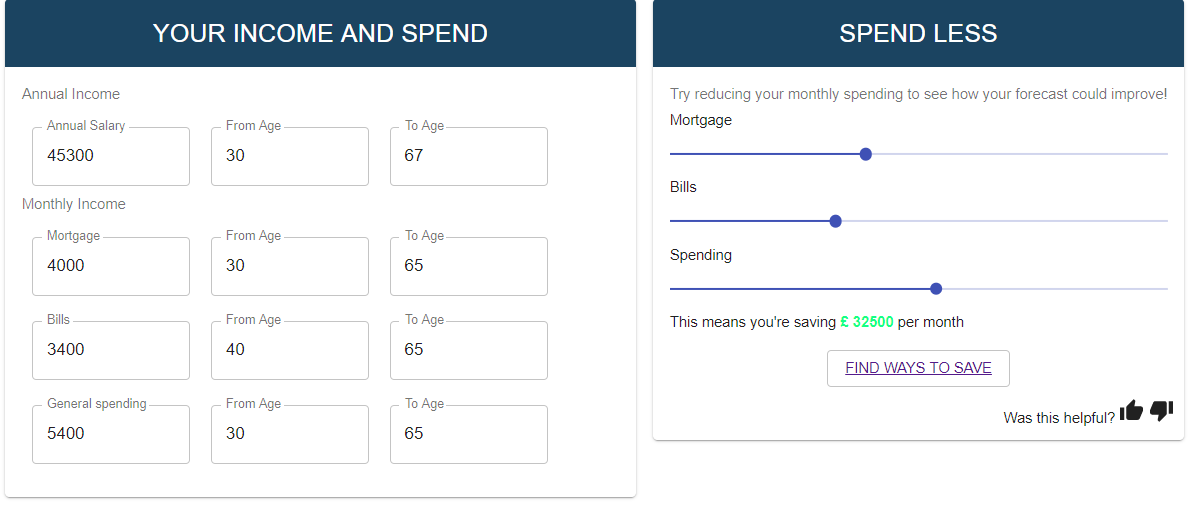
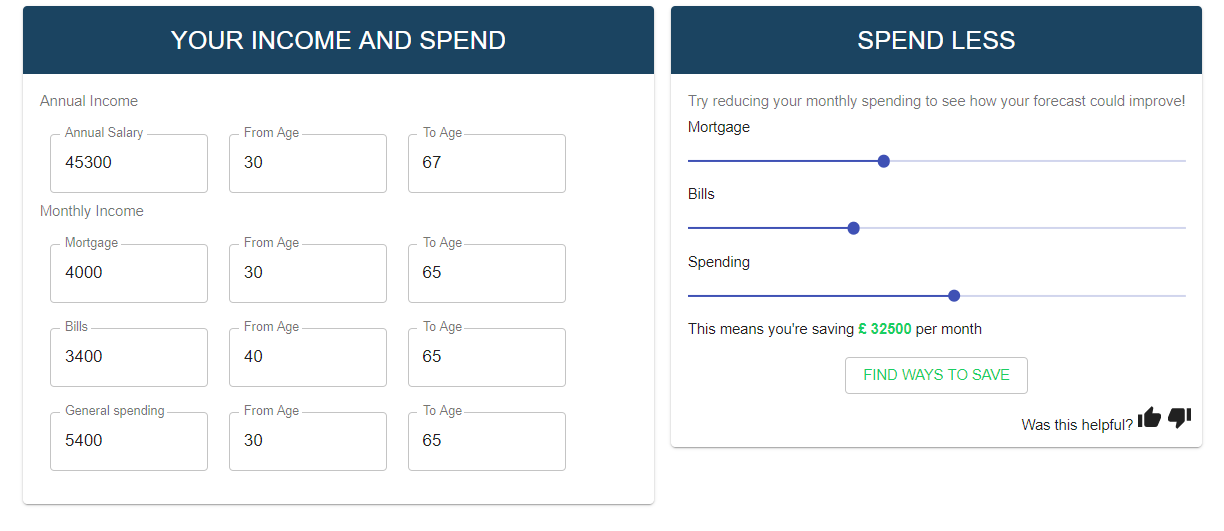
update

diff --git a/src/components/Tool.js b/src/components/Tool.js
@@ -56,6 +56,10 @@ const styles = {
     },
     hide: {
         display: 'none',
+    },
+    button: {
+        color: '#19cf63',
+        textDecoration: 'none'
     }
 };
 
@@ -261,12 +265,12 @@ function Tool(props) {
                                     />
                                 </div>
                                 <Typography>This means you're saving
-                                    <span style={{fontWeight: 'bold', color: '#16ff85'}}> £ {saving}</span> per month
+                                    <span style={{fontWeight: 'bold', color: '#19cf63'}}> £ {saving}</span> per month
                                 </Typography>
                             </CardContent>
                             <Grid container className={classes.root} justify="center">
                                 <Button variant="outlined" className={classes.button}>
-                                    <a href={'/'}>Find ways to save</a>
+                                    <a className={classes.button} href={'/'}>Find ways to save</a>
                                 </Button>
                             </Grid>
                             <Grid container className={classes.root} justify="flex-end">
